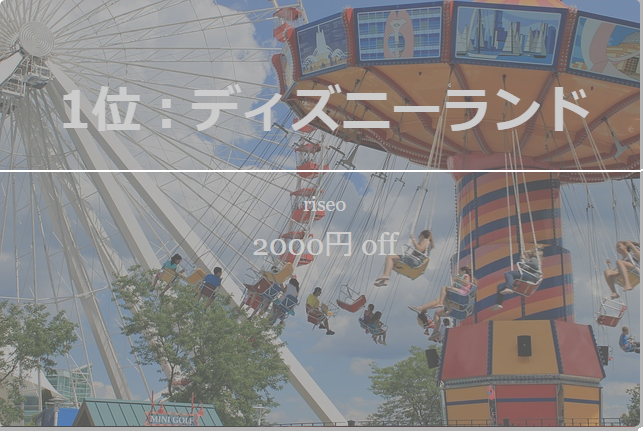
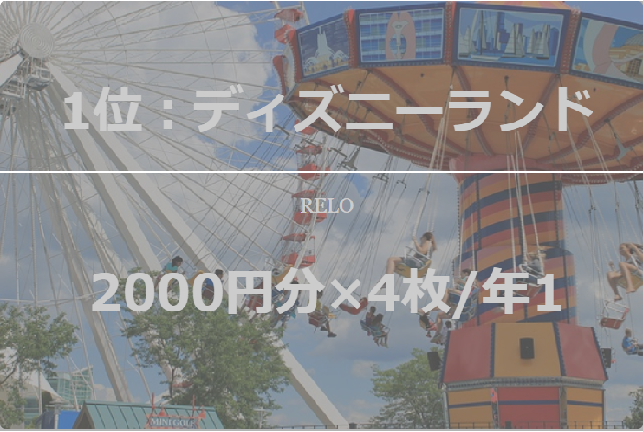
coupon page design

diff --git a/resources/views/amusementprime.blade.php b/resources/views/amusementprime.blade.php
@@ -32,12 +32,12 @@
                 <div class="infoLayer">
                     <ul>
                         <li><h3>1位：ディズニーランド</h3></li>
-                        <li><p>riseo</p></li>
-                        <li><p1>2000円 OFF</p1></li>
+                        <li><p>RELO</p></li>
+                        <li><h3>2000円分×4枚/年1</h3></li>
                     </ul>
                 </div>
                 
-                <!--<a href="images/gallery/p1.jpg"></a>-->
+                <!--<a href="images/gallery/h3.jpg"></a>-->
                 <!--<img data-original="images/gallery/drinking.jpg" src="img/effects/white.gif" alt="Photo 1" />-->
 
                 <!--<div class="overLayer"></div>-->
@@ -45,7 +45,7 @@
                 <!--    <ul>-->
                 <!--        <li><h3>i Beer</h3></li>-->
                 <!--        <li><p>rise</p></li>-->
-                <!--        <li><p1>10% OFF</p1></li>-->
+                <!--        <li><h3>10% OFF</h3></li>-->
                 <!--    </ul>-->
                 <!--</div>-->
                 <div class="projectInfo">Drinking</div>
@@ -58,8 +58,8 @@
                 <div class="infoLayer">
                     <ul>
                         <li><h3>2位：サマーランド</h3></li>
-                        <li><p>Relo</p></li>
-                        <li><p1>700円off</p1></li>
+                        <li><p>RELO</p></li>
+                        <li><h3>フリーパス 700～900円off</h3></li>
                     </ul>
                 </div>
                 <!--<img data-original="images/gallery/potato.jpg" src="img/effects/white.gif" alt="Photo 2" />-->
@@ -69,7 +69,7 @@
                 <!--    <ul>-->
                 <!--        <li><h3>McDonald's</h3></li>-->
                 <!--        <li><p>rise</p></li>-->
-                <!--        <li><p1>ポテト150円</p1></li>-->
+                <!--        <li><h3>ポテト150円</h3></li>-->
                 <!--    </ul>-->
                 <!--</div>-->
                 <div class="projectInfo">McDonald's</div>
@@ -82,8 +82,8 @@
                 <div class="infoLayer">
                     <ul>
                         <li><h3>3位：新江之島水族館</h3></li>
-                        <li><p>rise</p></li>
-                        <li><p1>入場料 1,470円</p1></li>
+                        <li><p>RELO</p></li>
+                        <li><h3>入場料 930円 off</h3></li>
                     </ul>
                 </div>
                 <!--<img data-original="images//gallery/cinamon.jpg" src="img/effects/white.gif" alt="Photo 3" />-->
@@ -93,7 +93,7 @@
                 <!--    <ul>-->
                 <!--        <li><h3>CINNABON</h3></li>-->
                 <!--        <li><p>rise</p></li>-->
-                <!--        <li><p1>10% OFF</p1></li>-->
+                <!--        <li><h3>10% OFF</h3></li>-->
                 <!--    </ul>-->
                 <!--</div>-->
                 <div class="projectInfo">CINNABON</div>
@@ -107,8 +107,8 @@
                 <div class="infoLayer">
                     <ul>
                         <li><h3>4位：大磯ロングビーチ</h3></li>
-                        <li><p>rise</p></li>
-                        <li><p1>入場料 3,600円</p1></li>
+                        <li><p>RELO</p></li>
+                        <li><h3>特別優待券 400円 off</h3></li>
                     </ul>
                 </div>
                 <!--<img data-original="images//gallery/hamburger.jpg" src="img/effects/white.gif" alt="Photo 3" />-->
@@ -118,7 +118,7 @@
                 <!--    <ul>-->
                 <!--        <li><h3>KUAAINA</h3></li>-->
                 <!--        <li><p>rise</p></li>-->
-                <!--        <li><p1>10% OFF</p1></li>-->
+                <!--        <li><h3>10% OFF</h3></li>-->
                 <!--    </ul>-->
                 <!--</div>-->
                 <div class="projectInfo">KUAAINA</div>
@@ -131,9 +131,8 @@
                 <div class="overLayer"></div>
                 <div class="infoLayer">
                     <ul>
-                        <li><h3>5位：ピクニックランド</h3></li>
-                        <li><p>rise</p></li>
-                        <li><p1>10% OFF</p1></li>
+                        <li><h3>5位：さがみ湖リゾート<br>プレジャーフォレスト</h3></li>
+                        <li><h3>入園料＋乗り物乗り放題 100円 off</h3></li>
                     </ul>
                 </div>
                 <div class="projectInfo">KUAAINA</div>
@@ -146,9 +145,9 @@
                 <div class="overLayer"></div>
                 <div class="infoLayer">
                     <ul>
-                        <li><h3>6位：シーパラダイスド</h3></li>
-                        <li><p>rise</p></li>
-                        <li><p1>入場料 2,250円</p1></li>
+                        <li><h3>6位：八景島シーパラダイス</h3></li>
+                        <li><p>RELO</p></li>
+                        <li><h3>ワンデーパス 650円 off</h3></li>
                     </ul>
                 </div>
                 <div class="projectInfo">KUAAINA</div>
@@ -161,9 +160,54 @@
                 <div class="overLayer"></div>
                 <div class="infoLayer">
                     <ul>
-                        <li><h3>7位：ジョイポリド</h3></li>
-                        <li><p>rise</p></li>
-                        <li><p1>入場料 3,000円</p1></li>
+                        <li><h3>7位：東京ジョイポリス</h3></li>
+                        <li><p>RELO</p></li>
+                        <li><h3>入場パス1,300円 off</h3></li>
+                    </ul>
+                </div>
+                <div class="projectInfo">KUAAINA</div>
+            </li>
+            
+            <li>
+                <a href="images/gallery/p3.jpg"></a>
+                <img data-original="10% OFF" src="images//gallery/rank/sunshine.png" alt="Photo 3" />
+
+                <div class="overLayer"></div>
+                <div class="infoLayer">
+                    <ul>
+                        <li><h3>8位：サンシャイン水族館</h3></li>
+                        <li><p>RELO</p></li>
+                        <li><h3>入場料 660円 off</h3></li>
+                    </ul>
+                </div>
+                <div class="projectInfo">KUAAINA</div>
+            </li>
+            
+            <li>
+                <a href="https://www.google.co.jp/search?rlz=1C1GGRV_enJP791JP792&ei=lkFRW9rUCIXR0gTQxbv4CA&hotel_occupancy=&q=%E7%AE%B1%E6%A0%B9%E5%B0%8F%E6%B6%8C%E5%9C%92%E3%83%A6%E3%83%8D%E3%83%83%E3%82%B5%E3%83%B3&oq=%E7%AE%B1%E6%A0%B9%E5%B0%8F%E6%B6%8C%E5%9C%92%E3%83%A6%E3%83%8D%E3%83%83%E3%82%B5%E3%83%B3&gs_l=psy-ab.3..0i131k1j0l3j0i7i30k1l4.34494.38051.0.39610.9.9.0.0.0.0.154.757.8j1.9.0....0...1.1j4.64.psy-ab..1.7.618...0i7i4i30k1j0i4k1j0i8i7i4i30k1.0.kx2_HKlU05g"></a>
+                <img data-original="10% OFF" src="images//gallery/rank/hakone.png" alt="Photo 3" />
+
+                <div class="overLayer"></div>
+                <div class="infoLayer">
+                    <ul>
+                        <li><h3>9位: 箱根小涌園ユネッサン</h3></li>
+                        <li><p>RELO</p></li>
+                        <li><h3>パスポート(ユネッサン&森の湯) 1,800円 off</h3></li>
+                    </ul>
+                </div>
+                <div class="projectInfo">KUAAINA</div>
+            </li>
+            
+            <li>
+                <a href="https://www.google.co.jp/search?rlz=1C1GGRV_enJP791JP792&ei=lkFRW9rUCIXR0gTQxbv4CA&hotel_occupancy=&q=%E7%AE%B1%E6%A0%B9%E5%B0%8F%E6%B6%8C%E5%9C%92%E3%83%A6%E3%83%8D%E3%83%83%E3%82%B5%E3%83%B3&oq=%E7%AE%B1%E6%A0%B9%E5%B0%8F%E6%B6%8C%E5%9C%92%E3%83%A6%E3%83%8D%E3%83%83%E3%82%B5%E3%83%B3&gs_l=psy-ab.3..0i131k1j0l3j0i7i30k1l4.34494.38051.0.39610.9.9.0.0.0.0.154.757.8j1.9.0....0...1.1j4.64.psy-ab..1.7.618...0i7i4i30k1j0i4k1j0i8i7i4i30k1.0.kx2_HKlU05g"></a>
+                <img data-original="10% OFF" src="images//gallery/rank/yokohama.png" alt="Photo 3" />
+
+                <div class="overLayer"></div>
+                <div class="infoLayer">
+                    <ul>
+                        <li><h3>10位: オービィ横浜</h3></li>
+                        <li><p>RELO</p></li>
+                        <li><h3>パスポート 800円 off</h3></li>
                     </ul>
                 </div>
                 <div class="projectInfo">KUAAINA</div>

diff --git a/resources/views/cafeprime.blade.php b/resources/views/cafeprime.blade.php
@@ -36,11 +36,11 @@
                     <ul>
                         <li><h3>1位：温野菜</h3></li>
                         <li><p>Relo</p></li>
-                        <li><p1>100円off</p1></li>
+                        <li><h3>100円off</h3></li>
                     </ul>
                 </div>
                 
-                <!--<a href="images/gallery/p1.jpg"></a>-->
+                <!--<a href="images/gallery/h3.jpg"></a>-->
                 <!--<img data-original="images/gallery/drinking.jpg" src="img/effects/white.gif" alt="Photo 1" />-->
 
                 <!--<div class="overLayer"></div>-->
@@ -48,7 +48,7 @@
                 <!--    <ul>-->
                 <!--        <li><h3>i Beer</h3></li>-->
                 <!--        <li><p>rise</p></li>-->
-                <!--        <li><p1>10% OFF</p1></li>-->
+                <!--        <li><h3>10% OFF</h3></li>-->
                 <!--    </ul>-->
                 <!--</div>-->
                 <div class="projectInfo">Drinking</div>
@@ -62,7 +62,7 @@
                     <ul>
                         <li><h3>2位：Bills</h3></li>
                         <li><p>Relo</p></li>
-                        <li><p1>1 drink or 200円off</p1></li>
+                        <li><h3>1 drink or 200円off</h3></li>
                     </ul>
                 </div>
                 <!--<img data-original="images/gallery/potato.jpg" src="img/effects/white.gif" alt="Photo 2" />-->
@@ -72,7 +72,7 @@
                 <!--    <ul>-->
                 <!--        <li><h3>McDonald's</h3></li>-->
                 <!--        <li><p>rise</p></li>-->
-                <!--        <li><p1>ポテト150円</p1></li>-->
+                <!--        <li><h3>ポテト150円</h3></li>-->
                 <!--    </ul>-->
                 <!--</div>-->
                 <div class="projectInfo"></div>
@@ -86,7 +86,7 @@
                     <ul>
                         <li><h3>3位：KUAAINA</h3></li>
                         <li><p>rise</p></li>
-                        <li><p1>10% OFF</p1></li>
+                        <li><h3>10% OFF</h3></li>
                     </ul>
                 </div>
                 <!--<img data-original="images//gallery/cinamon.jpg" src="img/effects/white.gif" alt="Photo 3" />-->
@@ -96,7 +96,7 @@
                 <!--    <ul>-->
                 <!--        <li><h3>CINNABON</h3></li>-->
                 <!--        <li><p>rise</p></li>-->
-                <!--        <li><p1>10% OFF</p1></li>-->
+                <!--        <li><h3>10% OFF</h3></li>-->
                 <!--    </ul>-->
                 <!--</div>-->
                 <div class="projectInfo">CINNABON</div>
@@ -111,7 +111,7 @@
                     <ul>
                         <li><h3>4位：McDonald's</h3></li>
                         <li><p>rise</p></li>
-                        <li><p1>ポテト150円</p1></li>
+                        <li><h3>ポテト150円</h3></li>
                     </ul>
                 </div>
                 <!--<img data-original="images//gallery/hamburger.jpg" src="img/effects/white.gif" alt="Photo 3" />-->
@@ -121,7 +121,7 @@
                 <!--    <ul>-->
                 <!--        <li><h3>KUAAINA</h3></li>-->
                 <!--        <li><p>rise</p></li>-->
-                <!--        <li><p1>10% OFF</p1></li>-->
+                <!--        <li><h3>10% OFF</h3></li>-->
                 <!--    </ul>-->
                 <!--</div>-->
                 <div class="projectInfo">KUAAINA</div>
@@ -136,7 +136,7 @@
                     <ul>
                         <li><h3>CINNABON</h3></li>
                         <li><p>rise</p></li>
-                        <li><p1>10% OFF</p1></li>
+                        <li><h3>10% OFF</h3></li>
                     </ul>
                 </div>
                 <div class="projectInfo">KUAAINA</div>
@@ -152,7 +152,7 @@
                     <ul>
                         <li><h3>すみれ</h3></li>
                         <li><p>Riro</p></li>
-                        <li><p1>100円off</p1></li>
+                        <li><h3>100円off</h3></li>
                     </ul>
                 </div>
                 <div class="projectInfo">KUAAINA</div>
@@ -167,7 +167,7 @@
                     <ul>
                         <li><h3>i Beer</h3></li>
                         <li><p>rise</p></li>
-                        <li><p1>10% OFF</p1></li>
+                        <li><h3>10% OFF</h3></li>
                     </ul>
                 </div>
                 <div class="projectInfo">KUAAINA</div>
@@ -175,14 +175,14 @@
             
             <li>
                 <a href="images/gallery/p3.jpg"></a>
-                <img data-original="images//gallery/bubbys.jpg" src="img/effects/white.gif" alt="Photo 3" />
+                <img data-original="images/gallery/rank/bubbys.jpg" src="img/effects/white.gif" alt="Photo 3" />
 
                 <div class="overLayer"></div>
                 <div class="infoLayer">
                     <ul>
-                        <li><h3>Bubby's</h3></li>
-                        <li><p>Riro</p></li>
-                        <li><p1>100円off</p1></li>
+                        <li><h3>8位: Bubby's</h3></li>
+                        <li><p>RELO</p></li>
+                        <li><h3>100円 off <br>(予約時エントリー必須)</h3></li>
                     </ul>
                 </div>
                 <div class="projectInfo">KUAAINA</div>

diff --git a/resources/views/amusement.php b/resources/views/amusement.php
@@ -40,7 +40,7 @@
                 <div class="overLayer"></div>
                 <div class="infoLayer">
                     <ul>
-                        <li><h3>東京ディズニーリゾート</h3></li>
+                        <li><h3>ディズニーランド</h3></li>
                         <li><p>RELO</p></li>
                         <li><h3>2000円分×4枚/年1</h3></li>
 
@@ -84,7 +84,7 @@
                 <div class="overLayer"></div>
                 <div class="infoLayer">
                     <ul>
-                        <li><h3>新江ノ島水族館</h3></li>
+                        <li><h3>新江之島水族館</h3></li>
                         <li><p>RELO</p></li>
                         <li><h3>入場料 930円 off</h3></li>
                     </ul>
@@ -115,9 +115,9 @@
                 <div class="overLayer"></div>
                 <div class="infoLayer">
                     <ul>
-                        <li><h3>鴨川シーワールド</h3></li>
+                        <li><h3>サマーランド</h3></li>
                         <li><p>RELO</p></li>
-                        <li><h3>入園料 350円 off</h3></li>
+                        <li><h3>700円off</h3></li>
                     </ul>
                 </div>
                 <div class="projectInfo">KUAAINA</div>
@@ -207,6 +207,8 @@
                 </div>
                 <div class="projectInfo">KUAAINA</div>
             </li>
+            
+            
         </ul>
     </section>
 

diff --git a/resources/views/shopping.blade.php b/resources/views/shopping.blade.php
@@ -5,7 +5,7 @@
     <meta content="width=device-width, initial-scale=1" name="viewport" />
     <title>Rakuten Gallery</title>
     <!-- Bootstrap CSS-->
-    <link rel="stylesheet" href="https://maxcdn.bootstrapcdn.com/bootstrap/3.3.7/css/bootstrap.min.css">
+    <!--<link rel="stylesheet" href="https://maxcdn.bootstrapcdn.com/bootstrap/3.3.7/css/bootstrap.min.css">-->
 
     <!-- add styles -->
     <link href="css/least.min.2.css" rel="stylesheet" type="text/css" />

diff --git a/resources/views/cafe.blade.php b/resources/views/cafe.blade.php
@@ -144,7 +144,7 @@
                 <div class="overLayer"></div>
                 <div class="infoLayer">
                     <ul>
-                        <li><h3>Bubby's</h3></li>
+                        <li><h3>8位: Bubby's</h3></li>
                         <li><p>RELO</p></li>
                         <li><h3>100円 off <br>(予約時エントリー必須)</h3></li>
                     </ul>
